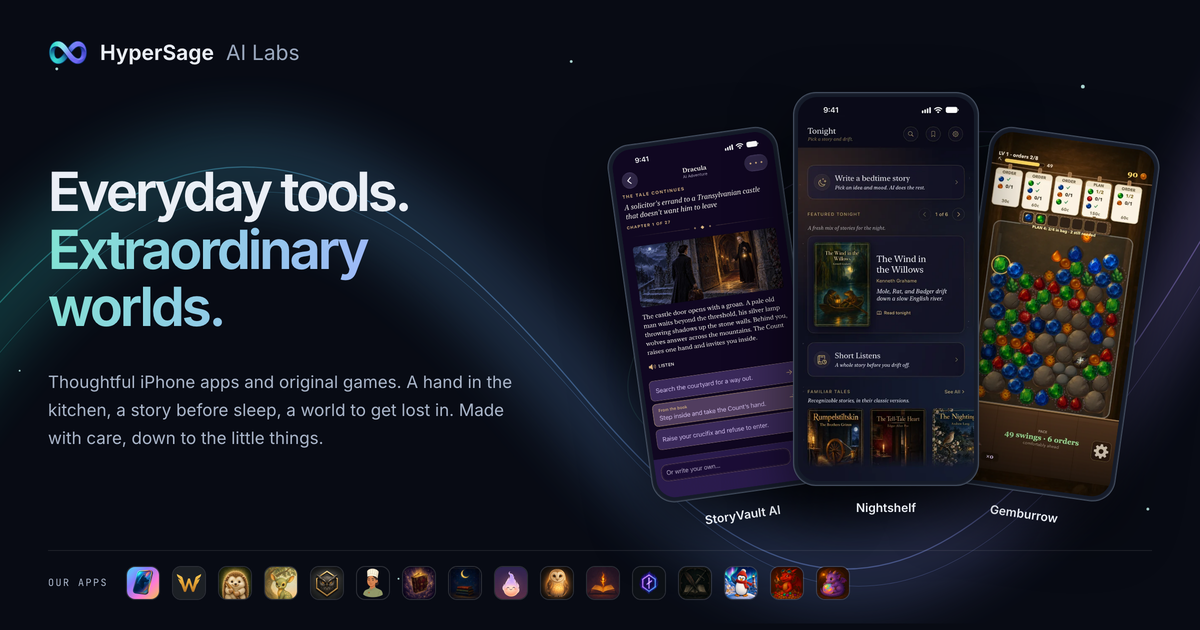
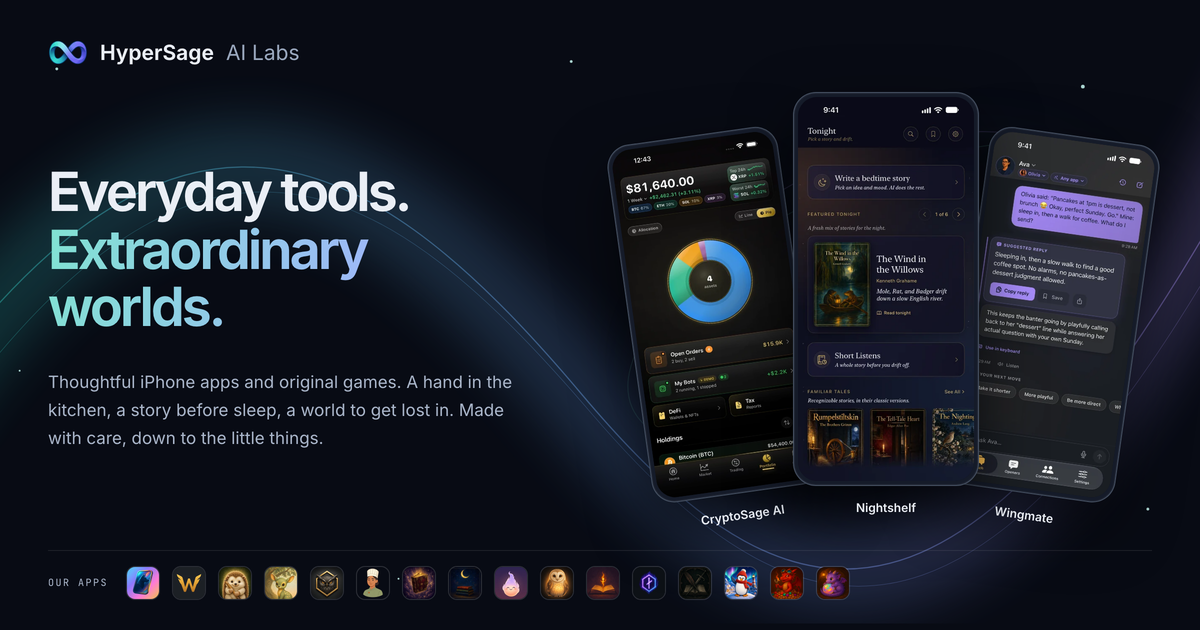
Rotate real app screens around Nightshelf and surface AI walkthroughs

Changed region(s): [[0.8017, 0.2111, 0.9867, 0.8444], [0.4933, 0.2111, 0.6783, 0.8444]]

diff --git a/index.html b/index.html
@@ -17,7 +17,7 @@
   <meta property="og:description" content="Thoughtful iPhone apps and original games from HyperSage AI Labs. Find a hand in the kitchen, a story before sleep, or a world to get lost in.">
   <meta property="og:url" content="https://hypersage.ai/">
   <meta property="og:site_name" content="HyperSage AI Labs">
-  <meta property="og:image" content="https://hypersage.ai/og-image.png?v=20261030a">
+  <meta property="og:image" content="https://hypersage.ai/og-image.png?v=20261030b">
   <meta property="og:image:type" content="image/png">
   <meta property="og:image:width" content="1200">
   <meta property="og:image:height" content="630">
@@ -25,7 +25,7 @@
   <meta name="twitter:card" content="summary_large_image">
   <meta name="twitter:title" content="HyperSage AI Labs — Independent Product Studio">
   <meta name="twitter:description" content="Thoughtful iPhone apps and original games from HyperSage AI Labs. Find a hand in the kitchen, a story before sleep, or a world to get lost in.">
-  <meta name="twitter:image" content="https://hypersage.ai/og-image.png?v=20261030a">
+  <meta name="twitter:image" content="https://hypersage.ai/og-image.png?v=20261030b">
   <meta name="twitter:image:alt" content="HyperSage AI Labs — an independent product studio">
 
   <link rel="icon" type="image/png" href="favicon.png">
@@ -42,7 +42,7 @@
         "legalName": "HyperSage AI Labs LLC",
         "url": "https://hypersage.ai/",
         "logo": "https://hypersage.ai/apple-touch-icon.png",
-        "image": "https://hypersage.ai/og-image.png?v=20261030a",
+        "image": "https://hypersage.ai/og-image.png?v=20261030b",
         "description": "An independent studio making iPhone apps and original games.",
         "email": "support@hypersage.ai",
         "address": { "@type": "PostalAddress", "addressRegion": "DE", "addressCountry": "US" }
@@ -246,7 +246,7 @@
     .hero .lede { font-size: clamp(1.05rem, 2.2vw, 1.28rem); color: var(--muted); max-width: 660px; margin-bottom: 34px; }
     .hero .lede strong { color: var(--fg); font-weight: 600; }
     .hero-cta { display: flex; align-items: center; gap: 14px; flex-wrap: wrap; }
-    /* A direct route into a browser game alongside the portfolio CTA. */
+    /* A direct route into the interactive AI walkthrough. */
     .hero-try {
       display: inline-flex; align-items: center; gap: 7px; min-height: 44px;
       color: var(--muted); font-weight: 500; font-size: 0.94rem; transition: color .2s;
@@ -870,15 +870,26 @@
     .hero .lede { max-width: 35em; font-size: 1.08rem; line-height: 1.75; margin-bottom: 28px; }
     .hero-cta { gap: 14px 22px; }
     .hero-try { font-size: .85rem; }
-    .product-universe { grid-area: engine; position: relative; width: 94%; max-width: 620px; height: 540px; justify-self: center; isolation: isolate; }
+    .product-universe { grid-area: engine; position: relative; width: 94%; max-width: 620px; justify-self: center; isolation: isolate; }
+    .showcase-stage { position: relative; height: 540px; }
+    .showcase-controls { display: flex; width: fit-content; max-width: 100%; margin: 4px auto 0; align-items: center; gap: 2px; padding: 5px; border: 1px solid #A8B7D333; border-radius: 999px; background: #101625; box-shadow: 0 8px 28px #0003; }
+    .showcase-controls[hidden], .showcase-control[hidden] { display: none; }
+    .showcase-control { display: inline-flex; align-items: center; justify-content: center; min-width: 44px; min-height: 44px; border: 0; border-radius: 50%; background: transparent; color: var(--fg); font: 1.1rem/1 'Inter',sans-serif; cursor: pointer; }
+    .showcase-control:hover { background: #A8E8DE18; }
+    .showcase-control:focus-visible { outline: 2px solid var(--brand-a); outline-offset: 1px; }
+    .showcase-count { min-width: 48px; color: var(--muted); font: .75rem/1 'JetBrains Mono',monospace; text-align: center; }
+    .showcase-toggle { border-left: 1px solid #A8B7D333; border-radius: 0 999px 999px 0; padding: 0 13px; gap: 7px; font-size: .73rem; }
+    .showcase-toggle svg { width: 12px; height: 12px; fill: currentColor; }
+    .showcase-note { margin: 12px 0 0; text-align: center; font-size: .72rem; color: var(--muted); }
+    @media print { .showcase-controls { display: none; } }
     .universe-orbit { position: absolute; width: 100%; height: 63%; top: 16%; border: 1px solid #A68DEC30; border-radius: 50%; transform: rotate(-24deg); box-shadow: 0 0 70px #759BE80B, inset 0 0 50px #76DCC709; z-index: -1; }
     .universe-orbit::after { content: ''; position: absolute; inset: 24px -24px; border: 1px solid #72DFC320; border-radius: 50%; }
     .showcase-phone { position: absolute; display: block; width: 34%; top: 58px; transition: transform .24s ease; }
     .phone-glass { display: block; padding: 5px; border-radius: 25px; background: #151B29; border: 1px solid #A1B7CE55; box-shadow: 0 24px 60px #0009, inset 0 0 0 1px #ffffff0C; }
-    .phone-glass img { display: block; width: 100%; height: auto; border-radius: 20px; }
-    .phone-story { left: 0; transform: rotate(-8deg); z-index: 1; }
+    .phone-glass img { display: block; width: 100%; height: auto; aspect-ratio: 420 / 913; object-fit: contain; background: #10131C; border-radius: 20px; }
+    .phone-left { left: 0; transform: rotate(-8deg); z-index: 1; }
     .phone-night { left: 32%; width: 37%; top: 8px; z-index: 3; }
-    .phone-gem { right: 0; transform: rotate(8deg); z-index: 2; }
+    .phone-right { right: 0; transform: rotate(8deg); z-index: 2; }
     .phone-caption { display: block; text-align: center; margin-top: 15px; font-size: .82rem; font-weight: 600; color: var(--fg); white-space: nowrap; }
     .phone-caption small { display: block; color: var(--muted); font-size: .68rem; font-weight: 400; margin-top: 3px; }
     .universe-caption { position: absolute; bottom: 0; width: 100%; text-align: center; font-size: .75rem; color: var(--muted); }
@@ -926,7 +937,7 @@
       .hero-stage { grid-template-areas: 'eyebrow engine' 'title engine' 'copy engine'; gap: 0 28px; grid-template-columns: 1fr 1fr; }
       .hero h1 { font-size: clamp(2.8rem,4.8vw,3.6rem); }
       .hero .lede { font-size: 1rem; }
-      .product-universe { height: 440px; }
+      .showcase-stage { height: 400px; }
       .showcase-phone { top: 60px; }
       .phone-night { top: 15px; }
       .phone-caption { font-size: .7rem; }
@@ -940,7 +951,8 @@
       .desktop-break { display: none; }
       .hero .lede { font-size: 1rem; max-width: 39em; }
       .hero .eyebrow { margin: 0 0 22px; font-size: .64rem; }
-      .product-universe { margin-top: 40px; max-width: 490px; height: auto; aspect-ratio: 1.05; }
+      .product-universe { margin-top: 40px; max-width: 490px; }
+      .showcase-stage { height: auto; aspect-ratio: 1.05; }
       .showcase-phone { top: 32px; }
       .phone-night { top: 0; }
       .phone-glass { padding: 3px; border-radius: 19px; }
@@ -1043,25 +1055,36 @@
           <p class="lede">Thoughtful iPhone apps and original games. A hand in the kitchen, a story before sleep, a world to get lost in. Made with care, down to the little things.</p>
           <div class="hero-cta">
             <a href="#products" class="btn btn-primary"><span>Explore the products</span><span aria-hidden="true">→</span></a>
-            <a class="hero-try" href="https://waddleton.pages.dev/" target="_blank" rel="noopener" aria-label="Play Waddleton free in your browser"><span class="u">Or play Waddleton free</span> <span aria-hidden="true">↗</span></a>
+            <a class="hero-try" href="#ai"><span class="u">See AI in action</span> <span aria-hidden="true">↓</span></a>
           </div>
         </div>
 
-        <figure class="product-universe" aria-label="Explore three HyperSage products">
-          <div class="universe-orbit" aria-hidden="true"></div>
-          <a class="showcase-phone phone-story" href="storyvault/" aria-label="Explore StoryVault AI">
-            <span class="phone-glass"><img src="storyvault/screenshots/release135-adventure.webp" alt="StoryVault AI: a Dracula adventure with illustrated scenes and choices" width="900" height="1955" fetchpriority="high"></span>
-            <span class="phone-caption">StoryVault AI <span aria-hidden="true">↗</span><small>Step into a story</small></span>
-          </a>
-          <a class="showcase-phone phone-night" href="nightshelf/" aria-label="Explore Nightshelf">
-            <span class="phone-glass"><img src="nightshelf/shots/20261030/home-small.webp" alt="Nightshelf with Pro enabled: illustrated classics, short listens, and bedtime stories" width="420" height="913" fetchpriority="high"></span>
-            <span class="phone-caption">Nightshelf <span aria-hidden="true">↗</span><small>Find a softer landing</small></span>
-          </a>
-          <a class="showcase-phone phone-gem" href="gemburrow/" aria-label="Explore Gemburrow">
-            <span class="phone-glass"><img src="gemburrow/shots/shot-20261030-career-430.webp" alt="Gemburrow: a jar of colorful gems and active digging orders" width="430" height="932"></span>
-            <span class="phone-caption">Gemburrow <span aria-hidden="true">↗</span><small>Unearth a little joy</small></span>
-          </a>
-          <figcaption class="sr-only">Real screens from StoryVault AI, Nightshelf, and Gemburrow.</figcaption>
+        <figure class="product-universe" aria-label="Explore the HyperSage collection">
+          <div class="showcase-stage">
+            <div class="universe-orbit" aria-hidden="true"></div>
+            <a class="showcase-phone phone-left" href="https://cryptosageai.io/" aria-label="Explore CryptoSage AI">
+              <span class="phone-glass"><img src="assets/showcase/cryptosage-portfolio.webp" alt="CryptoSage AI: portfolio balance and allocation chart using demo data" width="420" height="913" fetchpriority="high"></span>
+              <span class="phone-caption"><span class="phone-name">CryptoSage AI</span> <span aria-hidden="true">↗</span><small>Portfolio · Demo data</small></span>
+            </a>
+            <a class="showcase-phone phone-night" href="nightshelf/" aria-label="Explore Nightshelf">
+              <span class="phone-glass"><img src="nightshelf/shots/20261030/home-small.webp" alt="Nightshelf with Pro enabled: illustrated classics, short listens, and bedtime stories" width="420" height="913" fetchpriority="high"></span>
+              <span class="phone-caption">Nightshelf <span aria-hidden="true">↗</span><small>Find a softer landing</small></span>
+            </a>
+            <a class="showcase-phone phone-right" href="wingmate/" aria-label="Explore Wingmate">
+              <span class="phone-glass"><img src="assets/showcase/wingmate-coach.webp" alt="Wingmate: a conversation with Ava, an AI dating coach" width="420" height="913"></span>
+              <span class="phone-caption"><span class="phone-name">Wingmate</span> <span aria-hidden="true">↗</span><small>Find your words</small></span>
+            </a>
+          </div>
+          <div class="showcase-controls" hidden role="group" aria-label="Product showcase controls">
+            <button class="showcase-control" type="button" id="showcase-prev" aria-label="Previous apps"><span aria-hidden="true">←</span></button>
+            <span class="showcase-count" aria-label="Scene 1 of 3">1 / 3</span>
+            <button class="showcase-control" type="button" id="showcase-next" aria-label="Next apps"><span aria-hidden="true">→</span></button>
+            <button class="showcase-control showcase-toggle" type="button" id="showcase-play" aria-label="Pause product rotation">
+              <svg viewBox="0 0 12 12" aria-hidden="true"><path d="M2 1h3v10H2zM7 1h3v10H7z"/></svg><span>Pause</span>
+            </button>
+          </div>
+          <figcaption class="showcase-note">Real apps. A little everyday magic.</figcaption>
+          <span class="showcase-announcement sr-only" role="status" aria-live="polite"></span>
         </figure>
       </div>
     </div>
@@ -1384,7 +1407,7 @@
             <li>Free to play, with no ads and nothing you have to buy</li>
           </ul>
           <div class="foot">
-            <a class="btn-store" aria-label="Play free: Waddleton" href="https://waddleton.pages.dev/" target="_blank" rel="noopener">Play free <span aria-hidden="true">↗</span></a>
+            <a class="btn-store" aria-label="Play free: Waddleton" href="https://waddleton.pages.dev/" target="_blank" rel="noopener">Play Waddleton free <span aria-hidden="true">↗</span></a>
             <a class="link" aria-label="Website: Waddleton" href="waddleton/">Website <span aria-hidden="true">→</span></a>
           </div>
         </article>
@@ -2176,6 +2199,148 @@
         }
       });
       window.addEventListener('beforeprint', function () { show('all', false); });
+    })();
+  </script>
+<script>
+
+    /* Real app screens rotate around a stable Nightshelf anchor. The first
+       scene is complete HTML; enhancement never makes it depend on loading. */
+    (function () {
+      var figure = document.querySelector('.product-universe');
+      if (!figure || !('IntersectionObserver' in window)) return;
+      var sides = [figure.querySelector('.phone-left'), figure.querySelector('.phone-right')];
+      function readSide(link) {
+        var img = link.querySelector('img');
+        return { name: link.querySelector('.phone-name').textContent, href: link.getAttribute('href'),
+          src: img.getAttribute('src'), alt: img.alt, caption: link.querySelector('small').textContent };
+      }
+      var scenes = [
+        sides.map(readSide),
+        [
+          {name:'Quietoak',href:'quietoak/',src:'assets/showcase/quietoak-practice.webp',alt:'Quietoak: a guided practice with Willow, the AI companion',caption:'Make room for calm'},
+          {name:'Saffra',href:'saffra/',src:'assets/showcase/saffra-recipes.webp',alt:'Saffra: a recipe collection with food photography',caption:'Something good is cooking'}
+        ],
+        [
+          {name:'Rowan',href:'rowan/',src:'assets/showcase/rowan-today.webp',alt:'Rowan: daily symptom check-in, symptom history, and an upcoming appointment brief using sample data',caption:'Today, a little clearer'},
+          {name:'Holohound',href:'holohound/',src:'assets/showcase/holohound-collection.webp',alt:'Holohound: trading card collection, value chart, and Ask Hound',caption:'Know your collection'}
+        ]
+      ];
+      var controls = figure.querySelector('.showcase-controls');
+      var count = figure.querySelector('.showcase-count');
+      var play = figure.querySelector('#showcase-play');
+      var announcement = figure.querySelector('.showcase-announcement');
+      var note = figure.querySelector('.showcase-note');
+      var restingNote = note.textContent;
+      var motion = matchMedia('(prefers-reduced-motion: reduce)');
+      var connection = navigator.connection;
+      var paused = motion.matches || !!(connection && connection.saveData);
+      var visible = false, hovered = false, focused = false;
+      var current = 0, requested = 0, version = 0, timer = null, pendingManual = false;
+      var INTERVAL = 7000;
+      function restricted() { return motion.matches || !!(connection && connection.saveData); }
+      function canRotate() { return !paused && !restricted() && visible && !hovered && !focused && !document.hidden; }
+      function stopAutomatic() {
+        clearTimeout(timer);
+        timer = null;
+        if (!pendingManual) { version++; requested = current; }
+      }
+      function updatePlay() {
+        play.hidden = restricted();
+        play.setAttribute('aria-label', paused ? 'Play product rotation' : 'Pause product rotation');
+        play.querySelector('span').textContent = paused ? 'Play' : 'Pause';
+        play.querySelector('path').setAttribute('d', paused ? 'M3 1l8 5-8 5z' : 'M2 1h3v10H2zM7 1h3v10H7z');
+      }
+      function schedule() {
+        clearTimeout(timer);
+        timer = null;
+        if (canRotate()) timer = setTimeout(function () { show((current + 1) % scenes.length, false); }, INTERVAL);
+      }
+      function loadScreen(item) {
+        return new Promise(function (resolve, reject) {
+          var image = new Image();
+          var deadline = setTimeout(function () { reject(new Error('Screen load timed out')); }, 12000);
+          image.onload = function () {
+            var decoded = image.decode ? image.decode() : Promise.resolve();
+            decoded.then(function () { clearTimeout(deadline); resolve(image); }, function (error) { clearTimeout(deadline); reject(error); });
+          };
+          image.onerror = function () { clearTimeout(deadline); reject(new Error('Screen unavailable')); };
+          image.src = item.src;
+        });
+      }
+      function show(index, manual) {
+        clearTimeout(timer);
+        var token = ++version;
+        requested = index;
+        pendingManual = manual;
+        if (manual) { announcement.textContent = ''; note.textContent = 'Loading the next view…'; }
+        Promise.all(scenes[index].map(loadScreen)).then(function (images) {
+          if (token !== version || (!manual && !canRotate())) return;
+          // Commit image, description and destination together; the old scene
+          // stays fully usable while decoding or if either image cannot load.
+          sides.forEach(function (link, i) {
+            var item = scenes[index][i], image = images[i];
+            image.alt = item.alt;
+            image.width = image.naturalWidth; image.height = image.naturalHeight;
+            link.querySelector('img').replaceWith(image);
+            link.href = item.href;
+            link.setAttribute('aria-label', 'Explore ' + item.name);
+            link.querySelector('.phone-name').textContent = item.name;
+            link.querySelector('small').textContent = item.caption;
+            if (!restricted() && image.animate) image.animate([{opacity:.65},{opacity:1}], {duration:220,easing:'ease-out'});
+          });
+          current = requested = index;
+          pendingManual = false;
+          note.textContent = restingNote;
+          count.textContent = (index + 1) + ' / ' + scenes.length;
+          count.setAttribute('aria-label', 'Scene ' + (index + 1) + ' of ' + scenes.length);
+          if (manual) announcement.textContent = scenes[index][0].name + ', Nightshelf, and ' + scenes[index][1].name + '. Scene ' + (index + 1) + ' of ' + scenes.length + '.';
+          schedule();
+        }).catch(function () {
+          if (token !== version) return;
+          pendingManual = false; requested = current;
+          if (manual) {
+            note.textContent = 'Couldn’t load that view. Please try again.';
+            announcement.textContent = 'These screens could not load. The current apps are still available. Try Next or Previous again.';
+          }
+          schedule();
+        });
+      }
+      function step(direction) {
+        paused = true;
+        stopAutomatic();
+        updatePlay();
+        show((requested + direction + scenes.length) % scenes.length, true);
+      }
+      figure.querySelector('#showcase-prev').addEventListener('click', function () { step(-1); });
+      figure.querySelector('#showcase-next').addEventListener('click', function () { step(1); });
+      play.addEventListener('click', function () { paused = !paused; stopAutomatic(); updatePlay(); schedule(); });
+      figure.addEventListener('pointerenter', function (e) { if (e.pointerType !== 'touch') { hovered = true; stopAutomatic(); } });
+      figure.addEventListener('pointerleave', function () { hovered = false; schedule(); });
+      figure.addEventListener('focusin', function (event) {
+        focused = true; stopAutomatic();
+        if (event.target.closest('.showcase-phone')) { version++; pendingManual = false; requested = current; note.textContent = restingNote; }
+      });
+      figure.addEventListener('focusout', function () {
+        setTimeout(function () { focused = figure.contains(document.activeElement); schedule(); }, 0);
+      });
+      document.addEventListener('visibilitychange', function () { stopAutomatic(); schedule(); });
+      new IntersectionObserver(function (entries) {
+        visible = entries[0].isIntersecting && entries[0].intersectionRatio >= .35;
+        stopAutomatic(); schedule();
+      }, {threshold:[0,.35]}).observe(figure.querySelector('.showcase-stage'));
+      function preferencesChanged() {
+        if (restricted()) {
+          paused = true;
+          sides.forEach(function (side) { if (side.getAnimations) side.getAnimations({subtree:true}).forEach(function (animation) { animation.cancel(); }); });
+        }
+        stopAutomatic(); updatePlay(); schedule();
+      }
+      if (motion.addEventListener) motion.addEventListener('change', preferencesChanged);
+      else motion.addListener(preferencesChanged);
+      if (connection && connection.addEventListener) connection.addEventListener('change', preferencesChanged);
+      figure.setAttribute('aria-roledescription', 'carousel');
+      controls.hidden = false;
+      updatePlay();
     })();
   </script>
 </body>

diff --git a/privacy.html b/privacy.html
@@ -14,11 +14,11 @@
   <meta property="og:description" content="How the HyperSage AI Labs website handles data — no cookies, no ads, no identifiers; only anonymous daily visit totals. Each app has its own policy.">
   <meta property="og:url" content="https://hypersage.ai/privacy.html">
   <meta property="og:site_name" content="HyperSage AI Labs">
-  <meta property="og:image" content="https://hypersage.ai/og-image.png?v=20261030a">
+  <meta property="og:image" content="https://hypersage.ai/og-image.png?v=20261030b">
   <meta property="og:image:width" content="1200">
   <meta property="og:image:height" content="630">
   <meta name="twitter:card" content="summary_large_image">
-  <meta name="twitter:image" content="https://hypersage.ai/og-image.png?v=20261030a">
+  <meta name="twitter:image" content="https://hypersage.ai/og-image.png?v=20261030b">
   <link rel="icon" type="image/png" href="favicon.png">
   <link rel="apple-touch-icon" sizes="180x180" href="apple-touch-icon.png">
   <link rel="stylesheet" href="fonts/fonts.css?v=20260907f">

diff --git a/press.html b/press.html
@@ -13,11 +13,11 @@
   <meta property="og:description" content="Studio boilerplate, fact sheet, product one-liners, and downloadable logos and icons.">
   <meta property="og:url" content="https://hypersage.ai/press.html">
   <meta property="og:site_name" content="HyperSage AI Labs">
-  <meta property="og:image" content="https://hypersage.ai/og-image.png?v=20261030a">
+  <meta property="og:image" content="https://hypersage.ai/og-image.png?v=20261030b">
   <meta property="og:image:width" content="1200">
   <meta property="og:image:height" content="630">
   <meta name="twitter:card" content="summary_large_image">
-  <meta name="twitter:image" content="https://hypersage.ai/og-image.png?v=20261030a">
+  <meta name="twitter:image" content="https://hypersage.ai/og-image.png?v=20261030b">
   <link rel="icon" type="image/png" href="favicon.png">
   <link rel="apple-touch-icon" sizes="180x180" href="apple-touch-icon.png">
   <link rel="stylesheet" href="fonts/fonts.css?v=20260907f">

diff --git a/support.html b/support.html
@@ -14,11 +14,11 @@
   <meta property="og:description" content="Get help with a HyperSage product, or reach the studio. Email support@hypersage.ai.">
   <meta property="og:url" content="https://hypersage.ai/support.html">
   <meta property="og:site_name" content="HyperSage AI Labs">
-  <meta property="og:image" content="https://hypersage.ai/og-image.png?v=20261030a">
+  <meta property="og:image" content="https://hypersage.ai/og-image.png?v=20261030b">
   <meta property="og:image:width" content="1200">
   <meta property="og:image:height" content="630">
   <meta name="twitter:card" content="summary_large_image">
-  <meta name="twitter:image" content="https://hypersage.ai/og-image.png?v=20261030a">
+  <meta name="twitter:image" content="https://hypersage.ai/og-image.png?v=20261030b">
   <link rel="icon" type="image/png" href="favicon.png">
   <link rel="apple-touch-icon" sizes="180x180" href="apple-touch-icon.png">
   <link rel="stylesheet" href="fonts/fonts.css?v=20260907f">

diff --git a/terms.html b/terms.html
@@ -14,11 +14,11 @@
   <meta property="og:description" content="The terms that govern the HyperSage AI Labs website. Each product has its own terms.">
   <meta property="og:url" content="https://hypersage.ai/terms.html">
   <meta property="og:site_name" content="HyperSage AI Labs">
-  <meta property="og:image" content="https://hypersage.ai/og-image.png?v=20261030a">
+  <meta property="og:image" content="https://hypersage.ai/og-image.png?v=20261030b">
   <meta property="og:image:width" content="1200">
   <meta property="og:image:height" content="630">
   <meta name="twitter:card" content="summary_large_image">
-  <meta name="twitter:image" content="https://hypersage.ai/og-image.png?v=20261030a">
+  <meta name="twitter:image" content="https://hypersage.ai/og-image.png?v=20261030b">
   <link rel="icon" type="image/png" href="favicon.png">
   <link rel="apple-touch-icon" sizes="180x180" href="apple-touch-icon.png">
   <link rel="stylesheet" href="fonts/fonts.css?v=20260907f">

diff --git a/tools/build_og.py b/tools/build_og.py
@@ -103,11 +103,13 @@ body::before {{display:none}}
 .og .lede {{font-size:17px;line-height:1.65;color:var(--muted);max-width:490px}}
 .og .grad-text {{background-image:linear-gradient(105deg,#81E3D2,#9EB7F9 60%,#CFABF5)}}
 .og .product-universe {{grid-area:auto;width:94%;height:448px;margin:0}}
-.og .phone-story,.og .phone-gem {{top:50px}}
+.og .showcase-stage {{height:448px}}
+.og .showcase-controls,.og .showcase-note {{display:none}}
+.og .phone-left,.og .phone-right {{top:50px}}
 .og .phone-night {{top:8px}}
 .og .phone-caption {{font-size:12px;margin-top:12px}}
 .og .phone-caption small {{display:none}}
-.og .phone-caption span {{display:none}}
+.og .phone-caption span[aria-hidden] {{display:none}}
 .og .phone-glass {{padding:4px;border-radius:23px}}
 .og .phone-glass img {{border-radius:19px}}
 .og-apps {{border-top:1px solid #FFFFFF15;display:flex;align-items:center;gap:18px;margin-top:18px;padding-top:15px}}

diff --git a/README.md b/README.md
@@ -41,6 +41,8 @@ one product still on its own origin.
 - `index.html` — the landing page: inline CSS, small enhancement scripts, no build
   step. The hero comes first, then `#products`, `#ai`, `#about` and `#contact`; the
   desktop and mobile navigation must point at those sections in the same order.
+  The hero rotates real app screens around Nightshelf, with pause and manual
+  controls. The separate AI walkthrough remains under AI features.
 - `privacy.html` — studio-site privacy policy, scoped to the studio pages by name,
   because the subfolders share this origin and each product page has its own policy.
 - `terms.html` — website-only terms.
